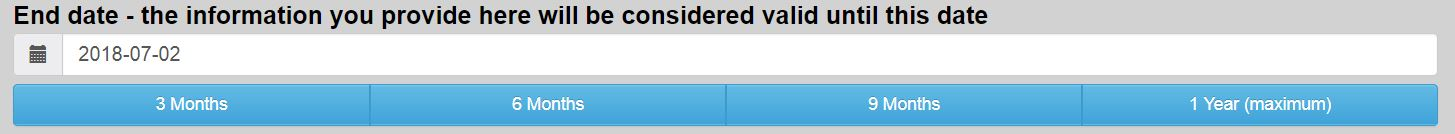
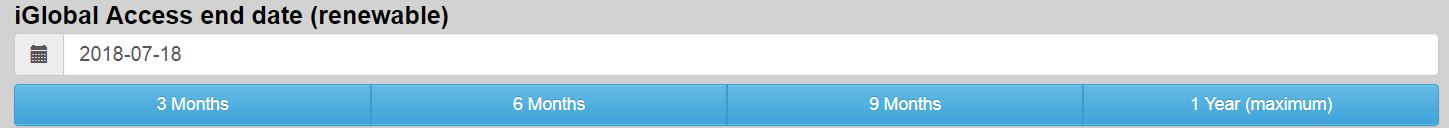
update readme

diff --git a/README.md b/README.md
@@ -1,42 +1,43 @@
 # UC Davis Department Contact
-This is a training guide for SISS departmental contacts to learn how to use the UC Davis Department Contact website.
+This is a training guide for SISS departmental contacts to learn how to use the UC Davis Department Contacts website.
 
 ## Background Information
-In order to obtain and maintain administrative access to process scholar visa requests in iGlobal, SISS requires department contacts to create and update a profile at the UC Davis Department Contacts website.  If the contact’s profile at this website expires, iGlobal access will be removed and the contact’s profile will be deleted from the website.  SISS will send reminders to contacts three times: 2 months, 1 month and 1 week prior to expiration.  
-UC Davis Department Contacts allows staff to create and update their profile to reflect any changes in assigned departments for processing visa requests.  SISS and departmental contacts may use this website to search for assigned contacts for each department that processes visas.
+  In order to obtain and maintain administrative access to process scholar visa requests in iGlobal, SISS requires department contacts to create and update a profile at the UC Davis Department Contacts website.  If the contact’s profile at this website expires, iGlobal access will be removed and the contact’s profile will be deleted from the website.  SISS will send reminders to contacts three times: 2 months, 1 month and 1 week prior to expiration. (TODO)  
+  UC Davis Department Contacts allows staff to create and update their profile to reflect any changes in assigned departments for processing visa requests.  SISS and departmental contacts may use this website to search for assigned contacts for each department that processes visas.
 
 ## Sign up
 To create new account, please go to the [website](http://192.241.218.9/welcome.html) and complete the form.
 - The logon id for your account is an email address of your choice.
 - The password can be anything you like, and it will not expire.
 - You can use the search box to find your department(s) and type(s) of visa requests you process.
-![search_box](https://github.com/TrentaIcedCoffee/PICS/blob/master/readme_resource/search_box.JPG)
+![search_box](/readme_resource/search_box.JPG)
 - iGlobal Access End Date  
-  TODO
-![end_date](https://github.com/TrentaIcedCoffee/PICS/blob/master/readme_resource/end_date.JPG)  
+  You are allowed to set an access end date up to one year in the future. Any time your profile information changes, you are responsible to update your information. As the access end date approaches, you will receive email reminders to update your account info and extend your access.  
+  Example: A departmental contact is processing visas for the next 6 months for Mechanical Engineering. The contact would enter an access end date 6 months in the future. Then, if an update is needed, the contact would make the update before the end of that 6 months. Otherwise, iGlobal access will be removed and the profile at UC Davis Department Contacts will be deleted.  
+![end_date](/readme_resource/end_date.JPG)  
 
 ## How to use UC Davis Department Contacts
 
 ## Login
 To login, click login.    
-![login](https://github.com/TrentaIcedCoffee/PICS/blob/master/readme_resource/login.JPG)
+![login](/readme_resource/login.JPG)
 If you forgot your passport, please email sissdata@ucdavis.edu
 
 ## Update My Information
 After you login to UC Davis Department Contact, you can update any information for your profile by going to My Information.    
-![change](https://github.com/TrentaIcedCoffee/PICS/blob/master/readme_resource/change.JPG)    
+![change](/readme_resource/change.JPG)    
 - In order to edit General Info and Supervisor Info, you must first click on the lock button to unlock the field.    
-![unlock](https://github.com/TrentaIcedCoffee/PICS/blob/master/readme_resource/unlock.JPG)    
+![unlock](/readme_resource/unlock.JPG)    
 After making a change, click on the lock button again to turn off editing.    
-![lock](https://github.com/TrentaIcedCoffee/PICS/blob/master/readme_resource/lock.JPG)     
+![lock](/readme_resource/lock.JPG)     
 - To edit your Department and Visa information, click on the edit icon to access the drop down and search selection.
 
 ## Search and Query
 ### Global Search
 You can type keywords in the Global search at the top right corner, and it will display contacts who have the keywords in any field.  
-![search](https://github.com/TrentaIcedCoffee/PICS/blob/master/readme_resource/search.JPG)
+![search](/readme_resource/search.JPG)
 ### Column Specific Query
 You can type keywords into the query box of each column, and it will filter information related to keywords you enter.    
-![query](https://github.com/TrentaIcedCoffee/PICS/blob/master/readme_resource/query.JPG)
+![query](/readme_resource/query.JPG)
 
 #### Any questions? Please send an email to sissdata@ucdavis.edu
